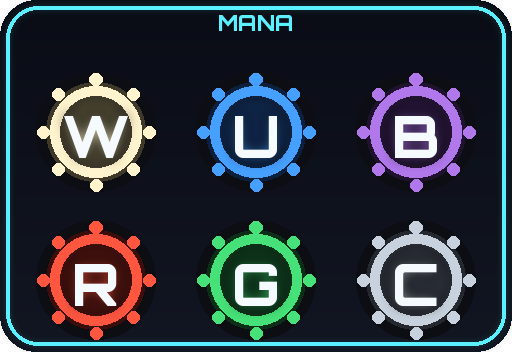
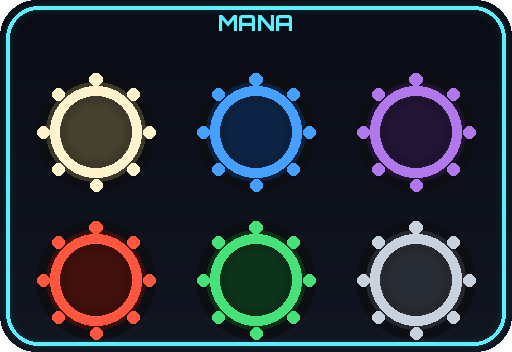
Mana tile: no W U B R G C letters, the count sits alone in each chip's dark middle
Claude-Session: https://claude.ai/code/session_015xPznVNTkn1KJuf5c7Z5b8

diff --git a/tools/make_mana_art.py b/tools/make_mana_art.py
@@ -27,7 +27,7 @@ def font(px):
     return f
 
 
-def chip(letter, rim, face, size=256, counter=True):
+def chip(letter, rim, face, size=256, counter=True, show_letter=True):
     S = size
     img = Image.new("RGBA", (S, S), (0, 0, 0, 0))
     d = ImageDraw.Draw(img)
@@ -57,6 +57,8 @@ def chip(letter, rim, face, size=256, counter=True):
         ImageDraw.Draw(img).ellipse([S * 0.3, S * 0.34, S * 0.7, S * 0.74], fill=(8, 10, 16, 255))
     else:
         f, pos = font(S * 0.46), (S / 2, S / 2 + 4)
+    if not show_letter:
+        return img
     t = Image.new("RGBA", (S, S), (0, 0, 0, 0))
     ImageDraw.Draw(t).text(pos, letter, font=f, fill=rim + (255,), anchor="mm")
     img.alpha_composite(t.filter(ImageFilter.GaussianBlur(max(2, S // 50))))
@@ -89,7 +91,9 @@ def tile():
     img.alpha_composite(border)
     ImageDraw.Draw(img).text((W / 2, 22), "MANA", font=font(22), fill=(90, 240, 255, 255), anchor="mm")
     for (key, letter, rim, face), (_, x, z) in zip(CHIPS, CHIP_SLOTS):
-        c = chip(letter, rim, face, 128, counter=False)
+        # No letter on the tile: the chip's color says which mana it is, and
+        # the count mana.lua draws in the middle stays easy to read.
+        c = chip(letter, rim, face, 128, counter=False, show_letter=False)
         cx, cy = W / 2 + x * PPU, H / 2 + z * PPU
         img.alpha_composite(c, (int(cx - 64), int(cy - 64)))
     return img
